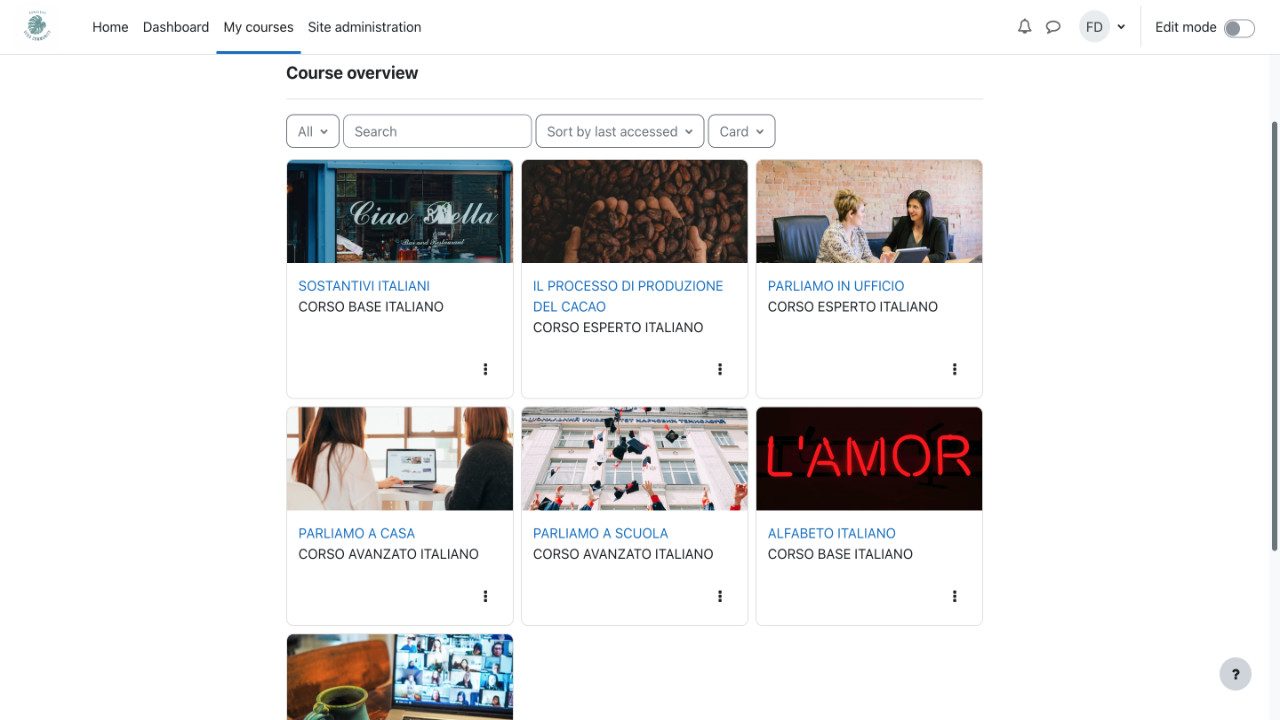
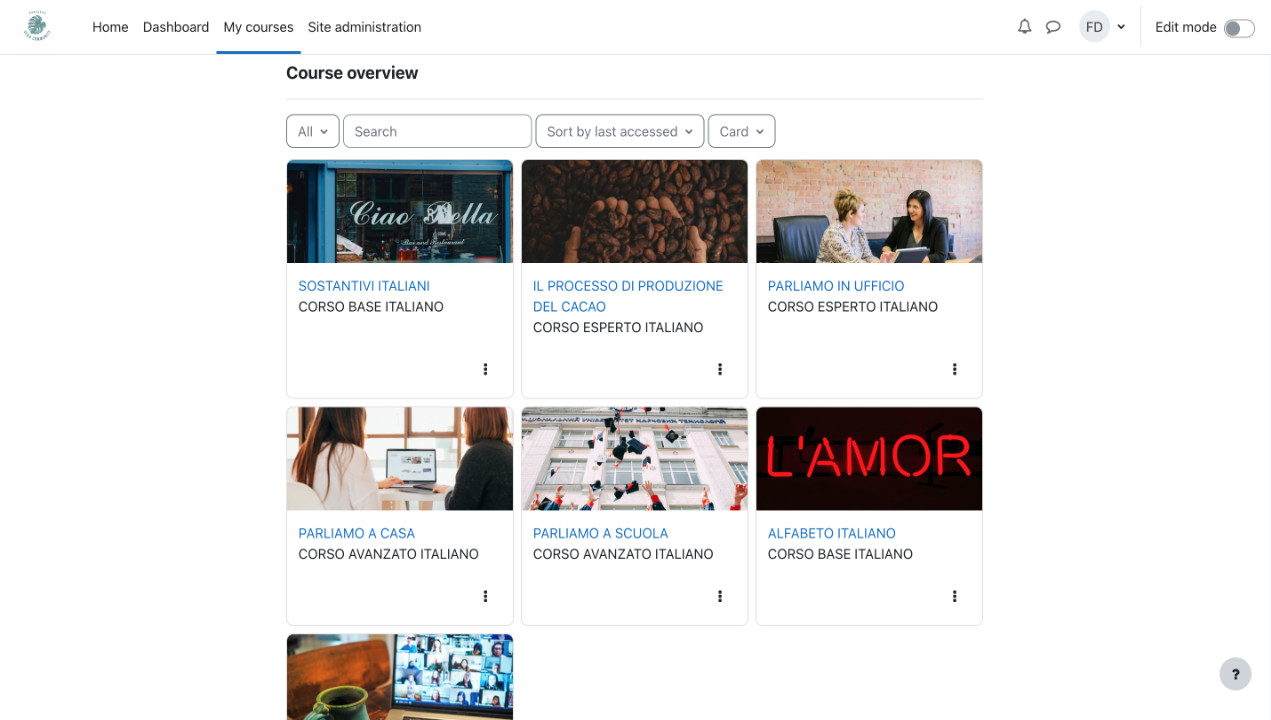
b radius

diff --git a/css/style.css b/css/style.css
@@ -13,10 +13,13 @@ body, html{
   color: #000;
 }
 
+img{border-radius: 5px!important;}
+
 .line{
   border-bottom: 1px solid #fff;
   padding-bottom: 10px;
 }
+
 
 /* portfolio section */
 .portfolio{width: 100%; height: auto; padding: 20px; margin: 0px auto; text-align: left;}
@@ -86,7 +89,7 @@ body, html{
 .portfolio-card{display: flex; flex-wrap: wrap; justify-content: space-around; padding:10px; margin: 40px auto; text-align:center;  border: 1px solid #fff; border-radius: 5px; }
 
 .portfolio-image{flex-basis:100%; padding:0px; margin:0px; }
-.portfolio-image .img-resp{width: 100%; height: auto;}
+.portfolio-image .img-resp{width: 100%; height: auto; }
 
 .portfolio-title{flex-basis:100%; padding:10px; margin:0px; text-align: left;}
 .portfolio-title h2{font-size: 25px ; margin: 0}

diff --git a/index.html b/index.html
@@ -31,7 +31,7 @@
   <!-- <link rel="stylesheet" href="https://fonts.googleapis.com/css2?family=Heebo:weight@400;900&display=swap"> -->
   <link rel="stylesheet" type="text/css"
     href="https://cdnjs.cloudflare.com/ajax/libs/normalize/8.0.1/normalize.min.css">
-  <link rel="stylesheet" type="text/css" href="./css/style.css">
+  <link rel="stylesheet" type="text/css" href="css/style.css">
 </head>
 
 <body>
@@ -115,7 +115,6 @@
           height="325px">
       </div>
     </div>
-
 
 
     <!-- CARD -->
